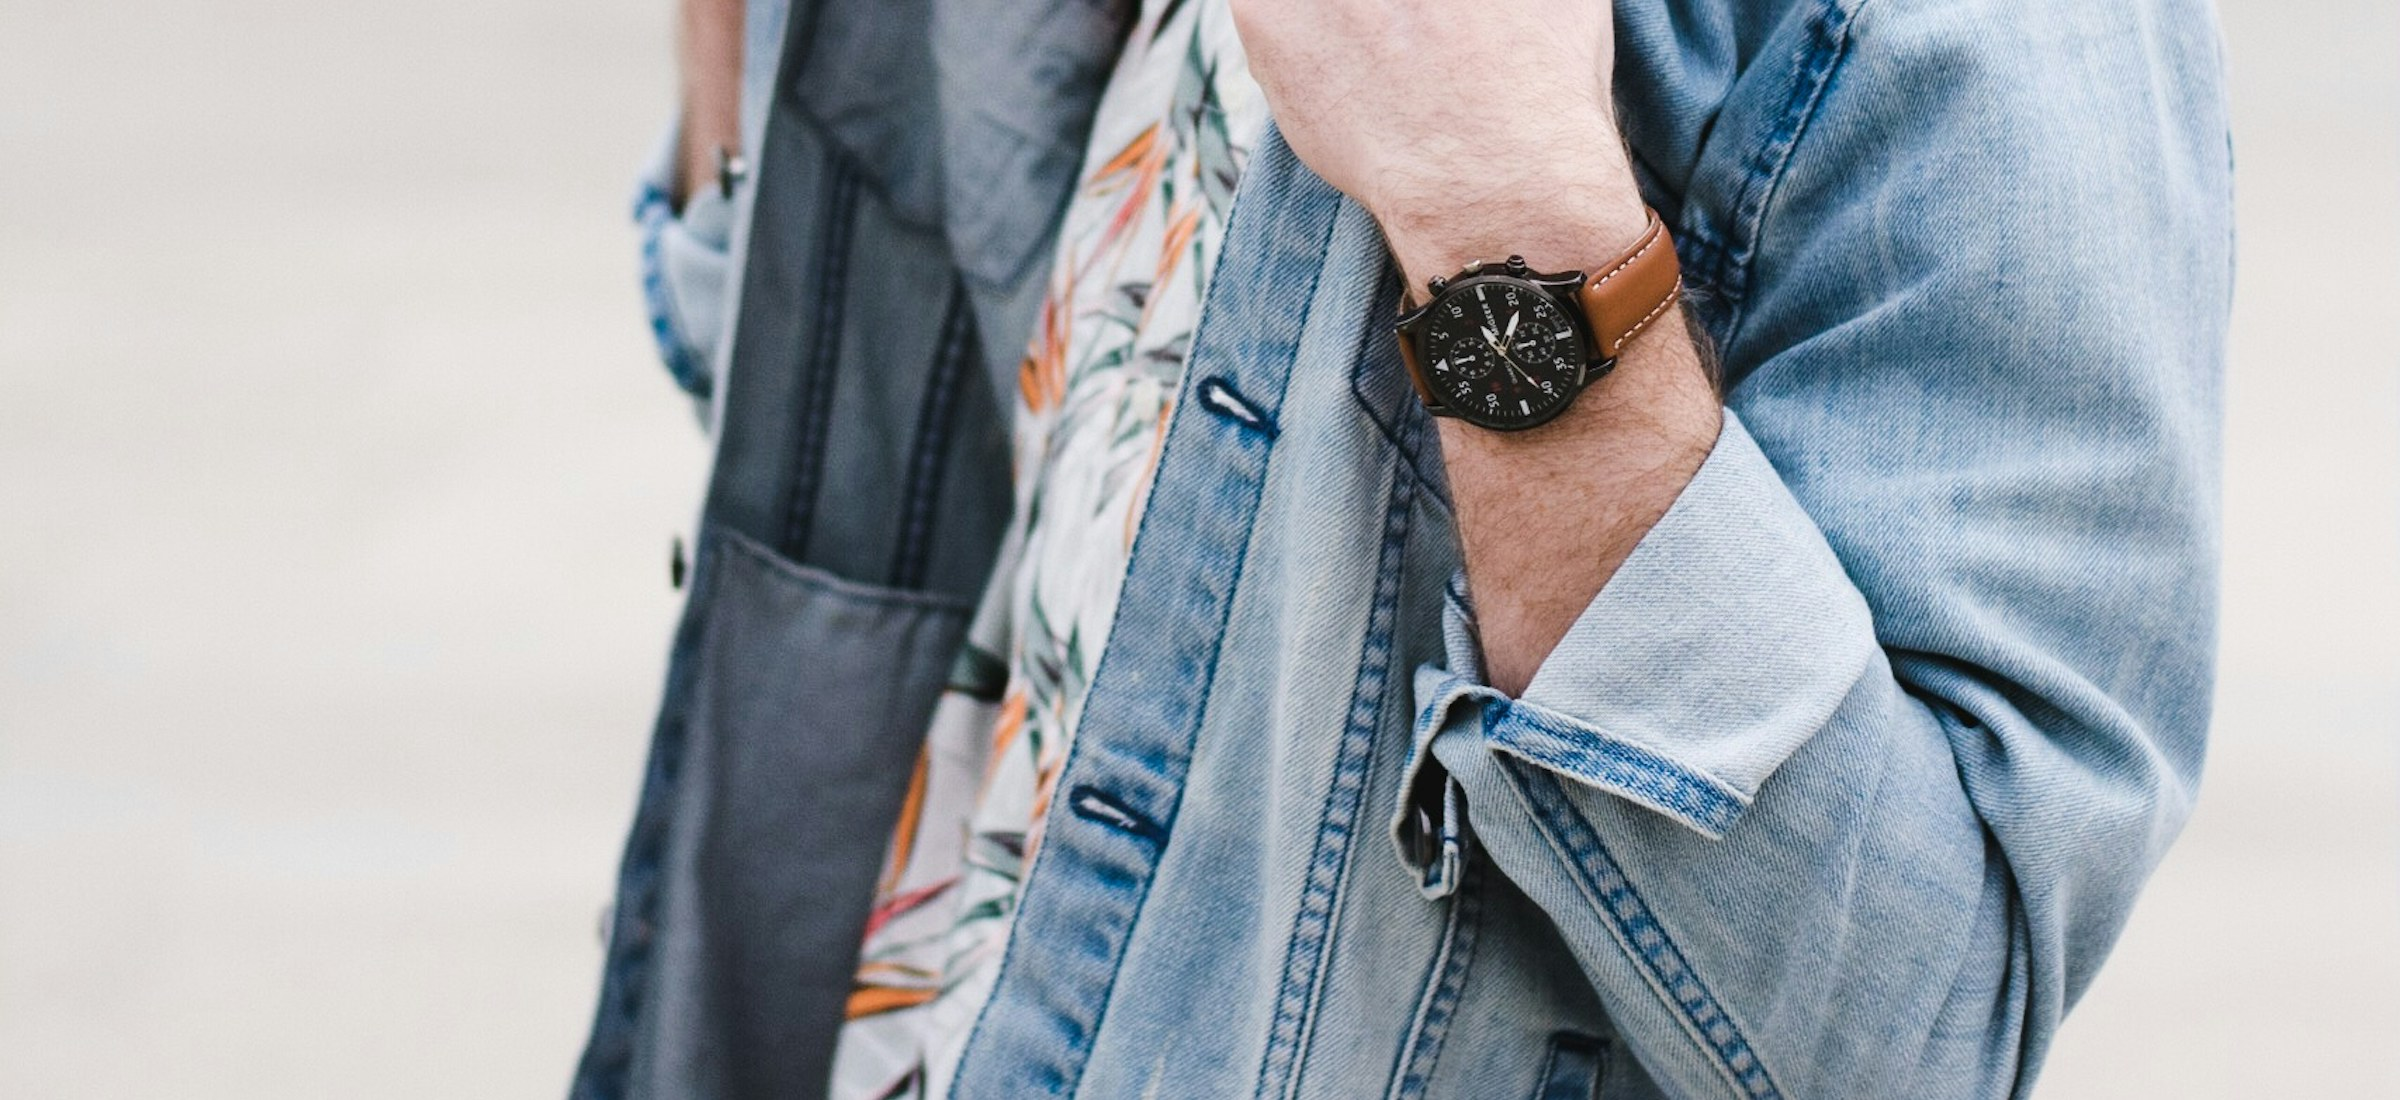
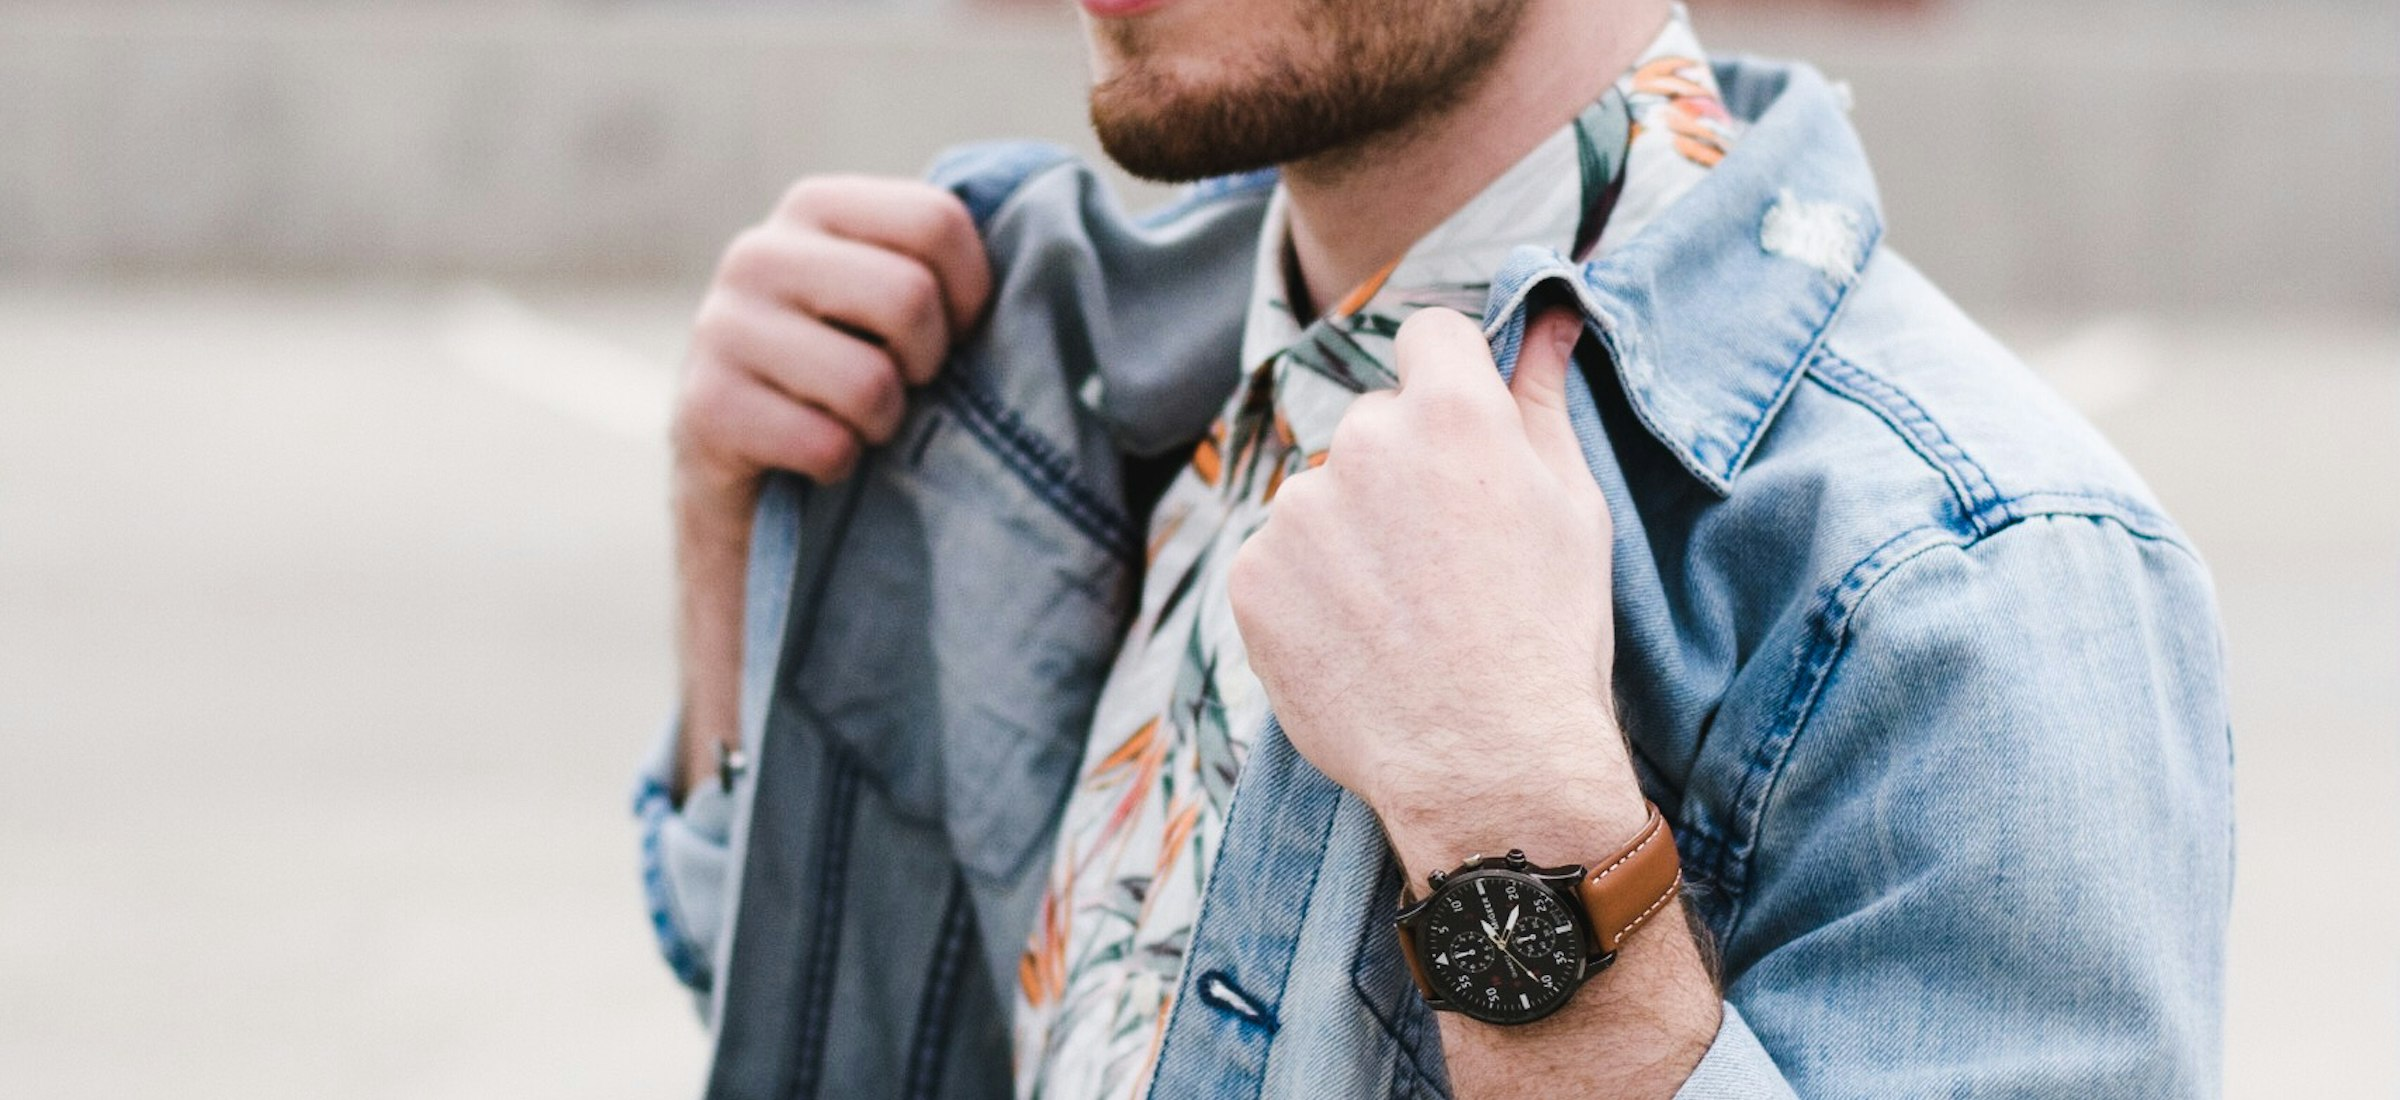
Fix the hero crop; collapse the language switcher into one control
The hero had swapped itself for a close-up of a cap carrying another
brand's label. Cause: crop=entropy picks the "most interesting" region
and resolves it differently per output size, so the 1200x550 crop I
reviewed and the 2400x1100 crop that shipped were different pictures.
Now uses a deterministic centre crop, checked at the exact size that
ships. It reads as menswear, shows no third-party mark, and keeps the
left third soft where the headline and buttons sit.

Language switcher becomes a single button showing the active locale,
opening a short menu with the other two. Three permanent pills cost
real width in a header already carrying a wordmark, six category links
and a search field, and language is a set-once decision. Still renders
real links, so every locale stays a crawlable URL and the current path
survives the switch.

diff --git a/components/layout/LocaleSwitcher.tsx b/components/layout/LocaleSwitcher.tsx
@@ -2,53 +2,102 @@
 
 import Link from "next/link";
 import { usePathname } from "next/navigation";
+import { useEffect, useRef, useState } from "react";
 
-import {
-  localeShortNames,
-  locales,
-  type Locale,
-} from "@/lib/i18n/config";
+import { localeShortNames, locales, type Locale } from "@/lib/i18n/config";
 
 interface LocaleSwitcherProps {
   current: Locale;
 }
 
 /**
- * Client component: it needs the current pathname to preserve the page the
- * visitor is on when they switch language (CLAUDE.md §8).
+ * Compact language switcher: one button showing the active locale, opening a
+ * short menu with the other two.
  *
- * Renders real links rather than a JS-driven dropdown so it works without
- * hydration and so crawlers can follow every locale.
+ * Three side-by-side pills cost real width in a header that already carries a
+ * wordmark, six category links and a search field — and language is a
+ * set-once decision, so it does not deserve permanent space.
+ *
+ * Still renders real `<Link>`s rather than a JS-driven change, so each locale
+ * remains a crawlable URL and the current path is preserved across the switch
+ * (CLAUDE.md §8).
  */
 export function LocaleSwitcher({ current }: LocaleSwitcherProps) {
   const pathname = usePathname();
+  const [open, setOpen] = useState(false);
+  const containerRef = useRef<HTMLDivElement>(null);
 
-  // "/uz/katalog" -> "/katalog"
+  // "/uz/katalog" -> "/katalog", so switching keeps the visitor in place.
   const rest = pathname.replace(/^\/[^/]+/, "") || "";
 
+  useEffect(() => {
+    if (!open) return;
+
+    function onPointerDown(event: MouseEvent | TouchEvent) {
+      if (!containerRef.current?.contains(event.target as Node)) setOpen(false);
+    }
+    function onKeyDown(event: KeyboardEvent) {
+      if (event.key === "Escape") setOpen(false);
+    }
+
+    document.addEventListener("mousedown", onPointerDown);
+    document.addEventListener("touchstart", onPointerDown);
+    document.addEventListener("keydown", onKeyDown);
+    return () => {
+      document.removeEventListener("mousedown", onPointerDown);
+      document.removeEventListener("touchstart", onPointerDown);
+      document.removeEventListener("keydown", onKeyDown);
+    };
+  }, [open]);
+
+  const others = locales.filter((locale) => locale !== current);
+
   return (
-    <nav
-      aria-label="Language"
-      className="flex items-center rounded-full border border-border p-0.5"
-    >
-      {locales.map((locale) => {
-        const isActive = locale === current;
-        return (
-          <Link
-            key={locale}
-            href={`/${locale}${rest}`}
-            hrefLang={locale}
-            aria-current={isActive ? "true" : undefined}
-            className={`rounded-full px-2.5 py-1 text-xs font-medium transition ${
-              isActive
-                ? "bg-brand text-brand-ink"
-                : "text-fg-muted hover:text-fg"
-            }`}
-          >
-            {localeShortNames[locale]}
-          </Link>
-        );
-      })}
-    </nav>
+    <div ref={containerRef} className="relative">
+      <button
+        type="button"
+        onClick={() => setOpen((value) => !value)}
+        aria-expanded={open}
+        aria-haspopup="menu"
+        aria-label="Language"
+        className="flex h-10 items-center gap-1 rounded-full px-2.5 text-xs font-semibold text-fg transition-colors hover:bg-surface focus-visible:outline-2 focus-visible:outline-offset-2 focus-visible:outline-brand"
+      >
+        {localeShortNames[current]}
+        <svg
+          viewBox="0 0 24 24"
+          fill="none"
+          stroke="currentColor"
+          strokeWidth="2"
+          strokeLinecap="round"
+          strokeLinejoin="round"
+          className={`size-3 text-fg-muted transition-transform duration-200 ${
+            open ? "rotate-180" : ""
+          }`}
+          aria-hidden="true"
+        >
+          <path d="m6 9 6 6 6-6" />
+        </svg>
+      </button>
+
+      {open ? (
+        <div
+          role="menu"
+          className="absolute right-0 top-full z-50 mt-1 min-w-[4.5rem] overflow-hidden rounded-xl border border-border bg-bg py-1 shadow-lg"
+        >
+          {others.map((locale) => (
+            <Link
+              key={locale}
+              href={`/${locale}${rest}`}
+              hrefLang={locale}
+              role="menuitem"
+              onClick={() => setOpen(false)}
+              className="block px-3.5 py-2 text-xs font-medium text-fg-muted transition-colors hover:bg-surface hover:text-fg"
+            >
+              {localeShortNames[locale]}
+            </Link>
+          ))}
+        </div>
+      ) : null}
+    </div>
   );
 }
